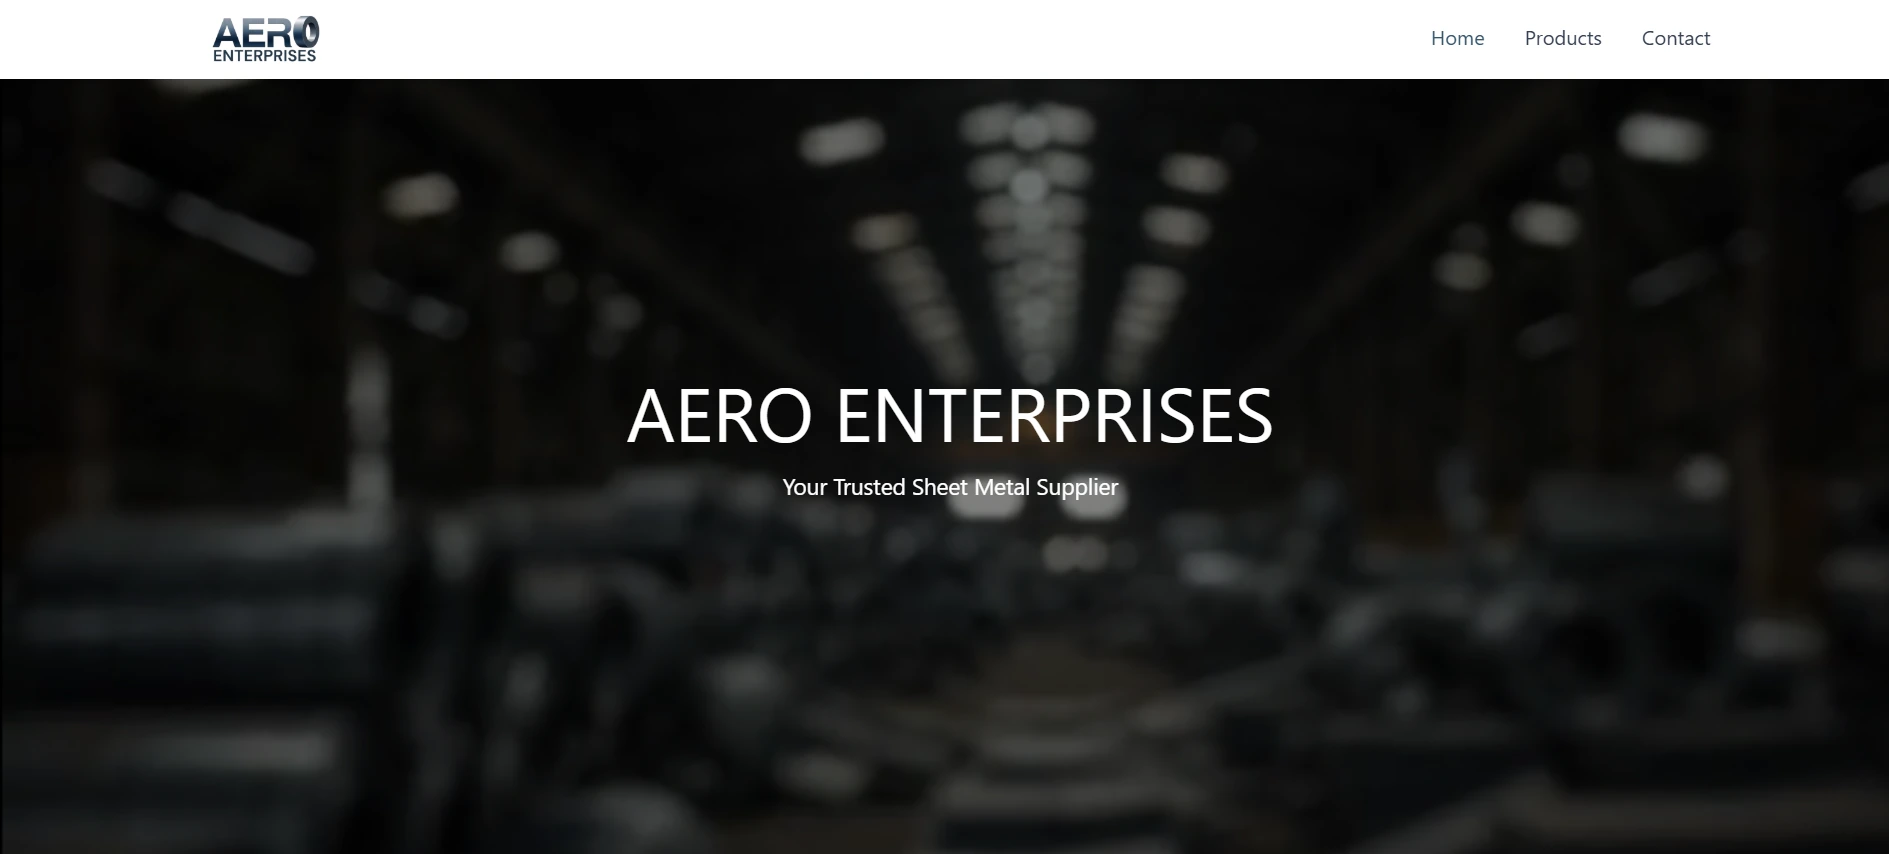
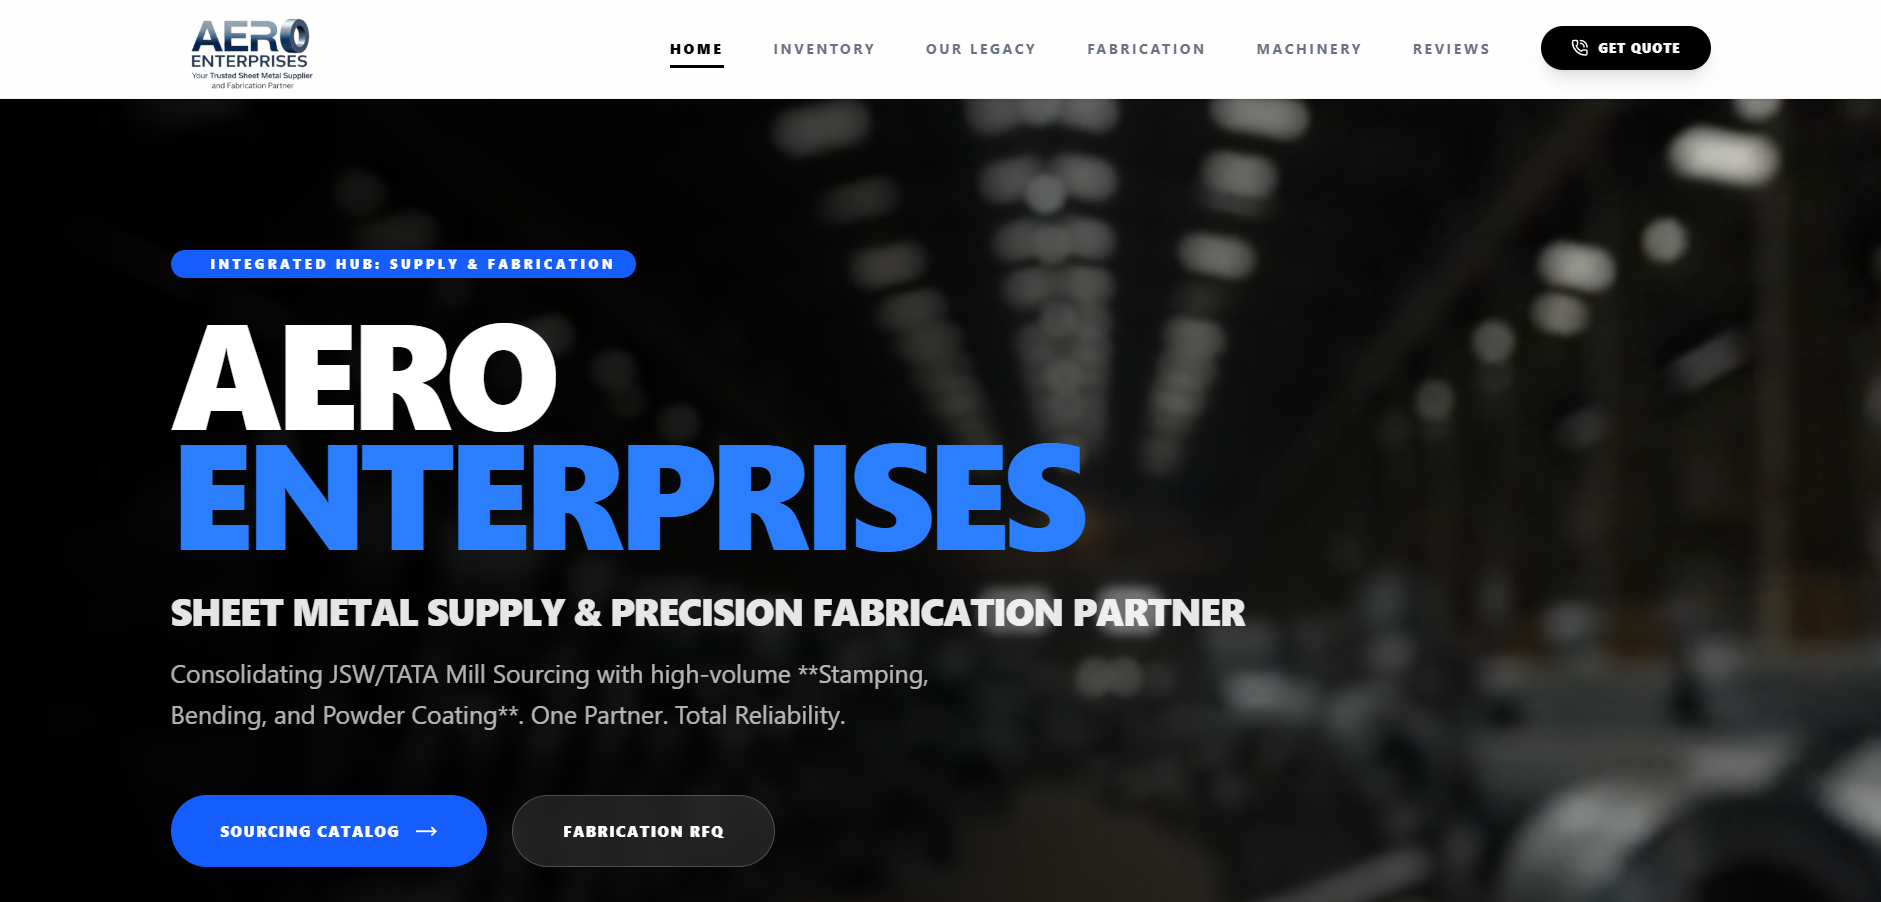
Tenth Commit

diff --git a/src/app/components/CTA.js b/src/app/components/CTA.js
@@ -1,3 +1,5 @@
+'use client'; // Required if using this in a client-side context
+
 import Link from 'next/link'
 import React from 'react'
 
@@ -12,15 +14,13 @@ const CTA = (props) => {
         isPrimaryDownload
     } = props;
 
-    // ELITE UI: Higher contrast and better padding for industrial B2B users
-    const primaryButtonClass = "dark-metal-card px-8 py-4 rounded-xl font-black uppercase tracking-widest text-sm text-white transition-all hover:scale-105 active:scale-95 shadow-lg flex items-center justify-center";
-    const secondaryButtonClass = "bg-white text-slate-900 px-8 py-4 rounded-4xl font-black uppercase tracking-widest text-sm border-2 border-transparent hover:border-white hover:bg-transparent hover:text-white transition-all flex items-center justify-center";
+    const primaryButtonClass = "dark-metal-card px-8 py-4 rounded-xl font-black uppercase tracking-widest text-sm text-white transition-all hover:scale-105 active:scale-95 shadow-lg flex items-center justify-center cursor-pointer";
+    const secondaryButtonClass = "bg-white text-slate-900 px-8 py-4 rounded-full font-black uppercase tracking-widest text-sm border-2 border-transparent hover:border-white hover:bg-transparent hover:text-white transition-all flex items-center justify-center";
 
     return (
         <section className="text-center py-20 px-6">
             <div className="inline-block blue-metal-card p-10 md:p-16 rounded-[2.5rem] shadow-2xl relative overflow-hidden max-w-5xl" data-aos="zoom-in-up">
 
-                {/* Visual Background Element for Authority Look */}
                 <div className="absolute top-0 right-0 w-32 h-32 bg-white/5 -mr-16 -mt-16 rounded-full"></div>
 
                 <h3 className="text-3xl md:text-5xl font-black text-white mb-6 uppercase tracking-tighter leading-tight">
@@ -33,15 +33,21 @@ const CTA = (props) => {
 
                 <div className="flex flex-col sm:flex-row gap-6 justify-center items-center">
 
-                    {/* 1. PRIMARY ACTION: DOWNLOAD OR EXTERNAL RFQ */}
-                    <a
-                        href={primaryButtonLink}
-                        className={primaryButtonClass}
-                        aria-label={`${primaryButtonText} - Aero Enterprises`}
-                        {...(isPrimaryDownload ? { download: true, target: "_blank", rel: "noopener noreferrer" } : {})}
-                    >
-                        {primaryButtonText}
-                    </a>
+                    {isPrimaryDownload ? (
+                        <a
+                            href={primaryButtonLink}
+                            download
+                            target="/AERO ENTERPRISES CATALOGUE.pdf"
+                            className={primaryButtonClass}
+                            aria-label={`Download ${primaryButtonText}`}
+                        >
+                            {primaryButtonText}
+                        </a>
+                    ) : (
+                        <Link href={primaryButtonLink} className={primaryButtonClass}>
+                            {primaryButtonText}
+                        </Link>
+                    )}
 
                     <Link
                         href={secondaryButtonLink}
@@ -53,7 +59,6 @@ const CTA = (props) => {
 
                 </div>
 
-                {/* TRUST SIGNAL: Small micro-text below buttons */}
                 <p className="mt-8 text-white/40 text-[10px] font-bold uppercase tracking-[0.3em]">
                     Mill Test Certificates (MTC) Available Upon Request
                 </p>

diff --git a/src/app/layout.js b/src/app/layout.js
@@ -18,7 +18,7 @@ export const metadata = {
   keywords: [
     "AERO ENTERPRISES Vasai",
     "Sheet metal supplier Mumbai",
-    "HR Coil pricing 2026", // Updated for the new year
+    "HR Coil pricing 2026",
     "Stainless Steel sheet supplier Maharashtra",
     "Industrial steel godown Vasai East",
     "JSW TATA SAIL steel dealer",
@@ -53,7 +53,7 @@ export const metadata = {
     description: 'Leading industrial steel sheet suppliers serving the Mumbai region.',
     images: ['/og-image.webp'],
   },
-  
+
   // High-authority robot instructions
   robots: {
     index: true,
@@ -67,6 +67,8 @@ export const metadata = {
     },
   },
 };
+
+
 
 // 2. --- COMPREHENSIVE SCHEMA INJECTION (E-E-A-T) ---
 
@@ -116,6 +118,8 @@ export default function RootLayout({ children }) {
   return (
     <html lang="en" className="scroll-smooth">
       <head>
+        <meta name="google-site-verification" content="bxrk76tl6CCpqJtKvrIwKH-O8RonpETAavnyV6fHboI" />
+        <meta name="msvalidate.01" content="B406A713428734B7264507731D5DC69A" />
         {/* Semantic Schema.org data for Organization and SearchBox */}
         <script
           type="application/ld+json"

diff --git a/src/app/page.js b/src/app/page.js
@@ -106,7 +106,7 @@ const Home = () => {
               { title: 'Metal Stamping', icon: <Hammer />, desc: 'High-Volume Pressing', link: '/services/metal-stamping' },
               { title: 'CNC Bending', icon: <Layers />, desc: 'Multi-Axis Precision', link: '/services/cnc-bending' },
               { title: 'Powder Coating', icon: <Paintbrush />, desc: 'Industrial Finishing', link: '/services/powder-coating' },
-              { title: 'CNC Punching', icon: <Cpu />, desc: 'Rapid Hole Profiling', link: '/services/punching' },
+              { title: 'CNC Punching', icon: <Cpu />, desc: 'Rapid Hole Profiling', link: '/services/punching-shearing' },
               { title: 'Laser Cutting', icon: <Scissors />, desc: 'Complex Geometry', link: '/services/laser-cutting' },
               { title: 'Welding', icon: <Factory />, desc: 'MIG/TIG Certified', link: '/services/welding' },
               { title: 'Shearing', icon: <Ruler />, desc: 'Custom Cut-to-Size', link: '/services/shearing-blanking' },

diff --git a/src/app/components/Footer.js b/src/app/components/Footer.js
@@ -22,9 +22,9 @@ const Footer = () => {
 
     const inventoryLinks = [
         { name: 'HR Sheets & Coils', path: '/products/hr-coil-supplier-mumbai' },
-        { name: 'CR Sheets & Coils', path: '/products/cr-sheet-supplier-mumbai' },
-        { name: 'Stainless Steel (SS)', path: '/products/stainless-steel-coil-supplier-mumbai' },
-        { name: 'Pickled & Oiled (PO)', path: '/products/pickled-oiled-sheet-supplier-mumbai' },
+        { name: 'CR Sheets & Coils', path: '/products/crc-sheet-supplier-mumbai' },
+        { name: 'Stainless Steel (SS)', path: '/products/ss-coil-supplier-mumbai' },
+        { name: 'Pickled & Oiled (PO)', path: '/products/po-sheet-supplier-mumbai' },
         { name: 'Secondary Steel Stock', path: '/products#secondary' },
     ];
 

diff --git a/src/app/machinery/page.js b/src/app/machinery/page.js
@@ -133,7 +133,6 @@ export default function MachineryPage() {
             />
             {/* 1. HERO: TECHNICAL AUTHORITY */}
             <div className='bg-slate-900 w-full h-[50vh] flex justify-center items-center text-center px-6 relative overflow-hidden'>
-                <div className="absolute inset-0 opacity-10 bg-[url('/grid-pattern.svg')]"></div>
                 <div className="relative z-10">
                     <div className="mb-4 inline-flex items-center gap-2 bg-blue-600 px-4 py-1 rounded-full text-white text-[10px] font-black uppercase tracking-[0.3em]">
                         Unit I & Unit II Infrastructure
